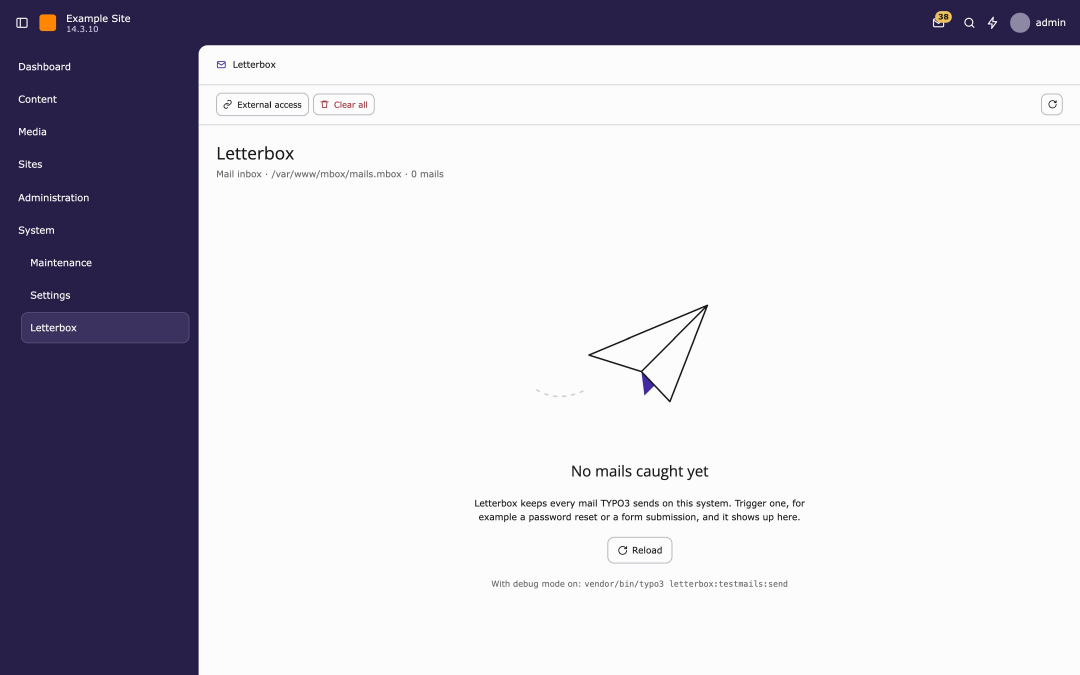
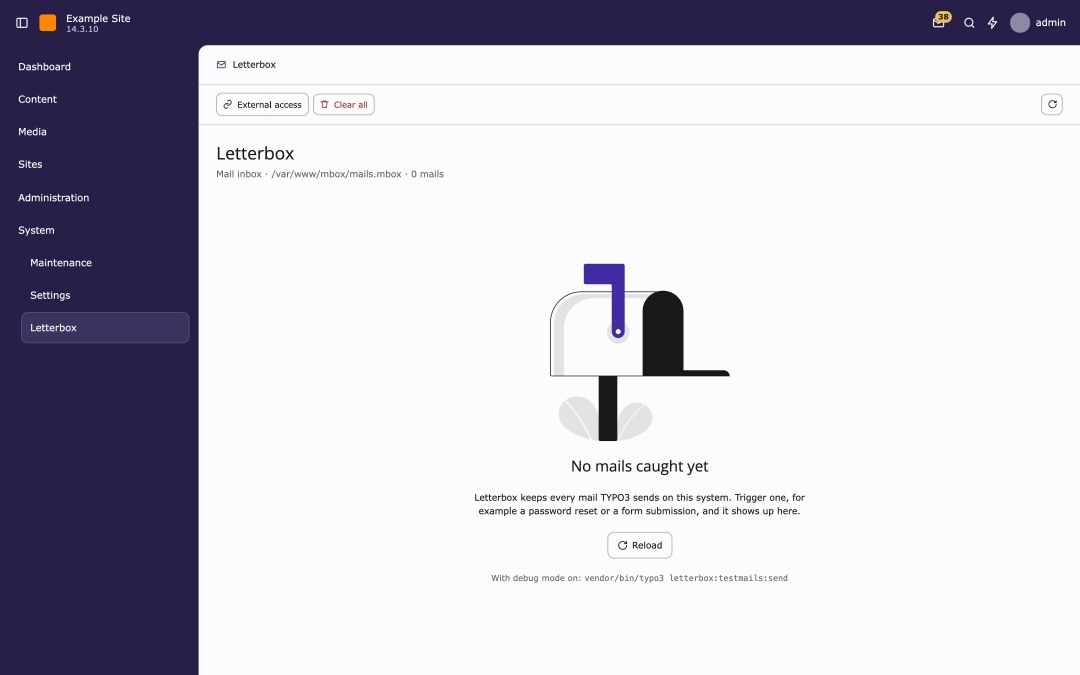
docs: refresh empty state design previews

Changed region(s): [[0.4278, 0.6844, 0.7639, 0.8711], [0.4889, 0.3733, 0.6722, 0.6533]]

diff --git a/docs/design/screens.md b/docs/design/screens.md
@@ -18,7 +18,7 @@ The rules behind these screens are in [rules.md](rules.md). The previews are exp
 | Inbox, resizable list | Alternative to the hide button | Splitter with mouse, keyboard and double-click; under review | <a href="screens/04-inbox-resizable-list.png"><img src="screens/04-inbox-resizable-list.png" width="200" alt="Inbox with resizable list"></a> |
 | Empty inbox (light) | Inbox without mails | Illustration, heading, sentence, Reload and the debug hint in place of both columns | <a href="screens/08-empty-inbox.png"><img src="screens/08-empty-inbox.png" width="200" alt="Empty inbox, light"></a> |
 | Empty inbox (dark) | Same in dark mode | The illustration follows the theme | <a href="screens/09-empty-inbox-dark.png"><img src="screens/09-empty-inbox-dark.png" width="200" alt="Empty inbox, dark"></a> |
-| No mail selected | Inbox, nothing opened | The 150px illustration, `h2` "No mail selected" and one sentence in the detail column | Preview follows once `screens/11-no-mail-selected.png` is exported |
+| No mail selected | Inbox, nothing opened | The 150px illustration, `h2` "No mail selected" and one sentence in the detail column | <a href="screens/11-no-mail-selected.png"><img src="screens/11-no-mail-selected.png" width="200" alt="No mail selected"></a> |
 | External access | Sub page of the module | Status card, tester links table, create link form, API card with example | <a href="screens/05-external-access.png"><img src="screens/05-external-access.png" width="200" alt="External access"></a> |
 
 ## Outside the backend and system surfaces
